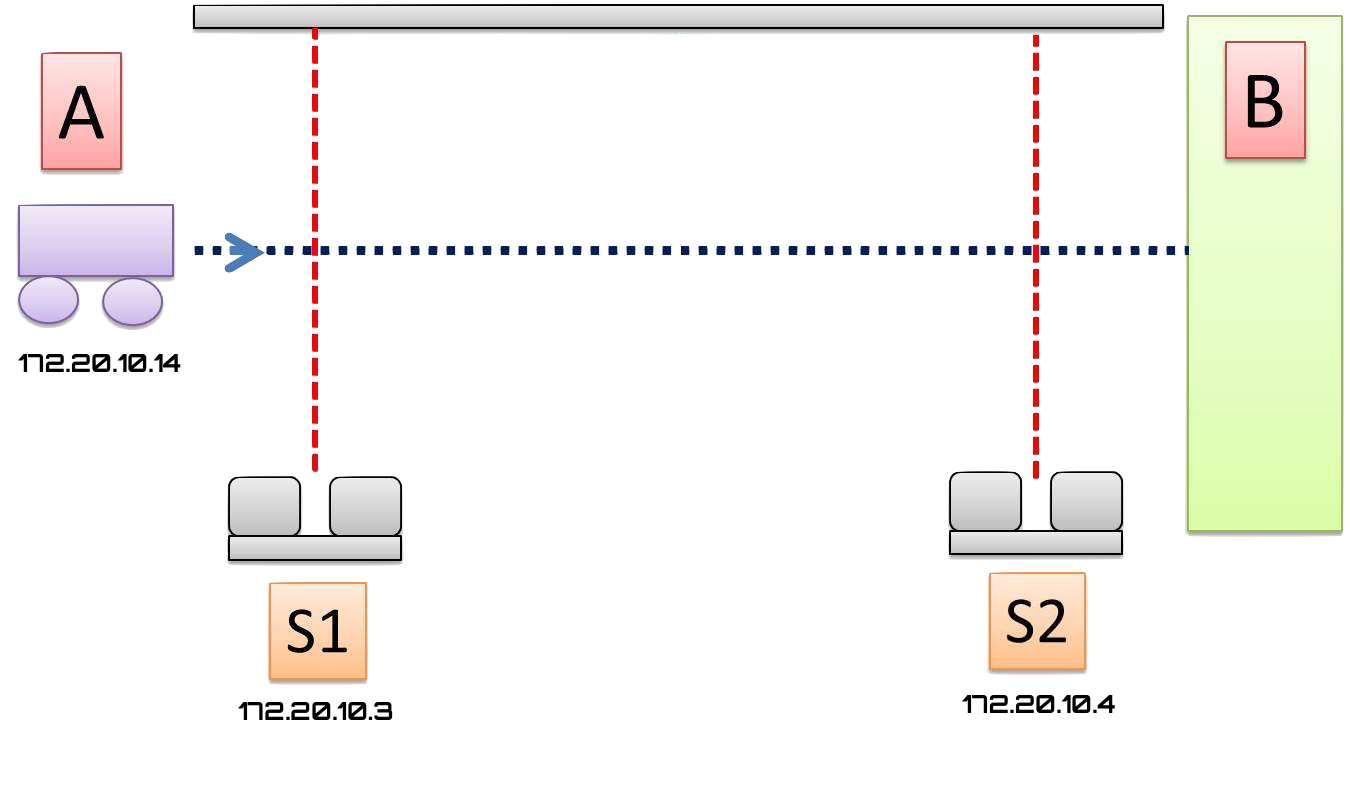
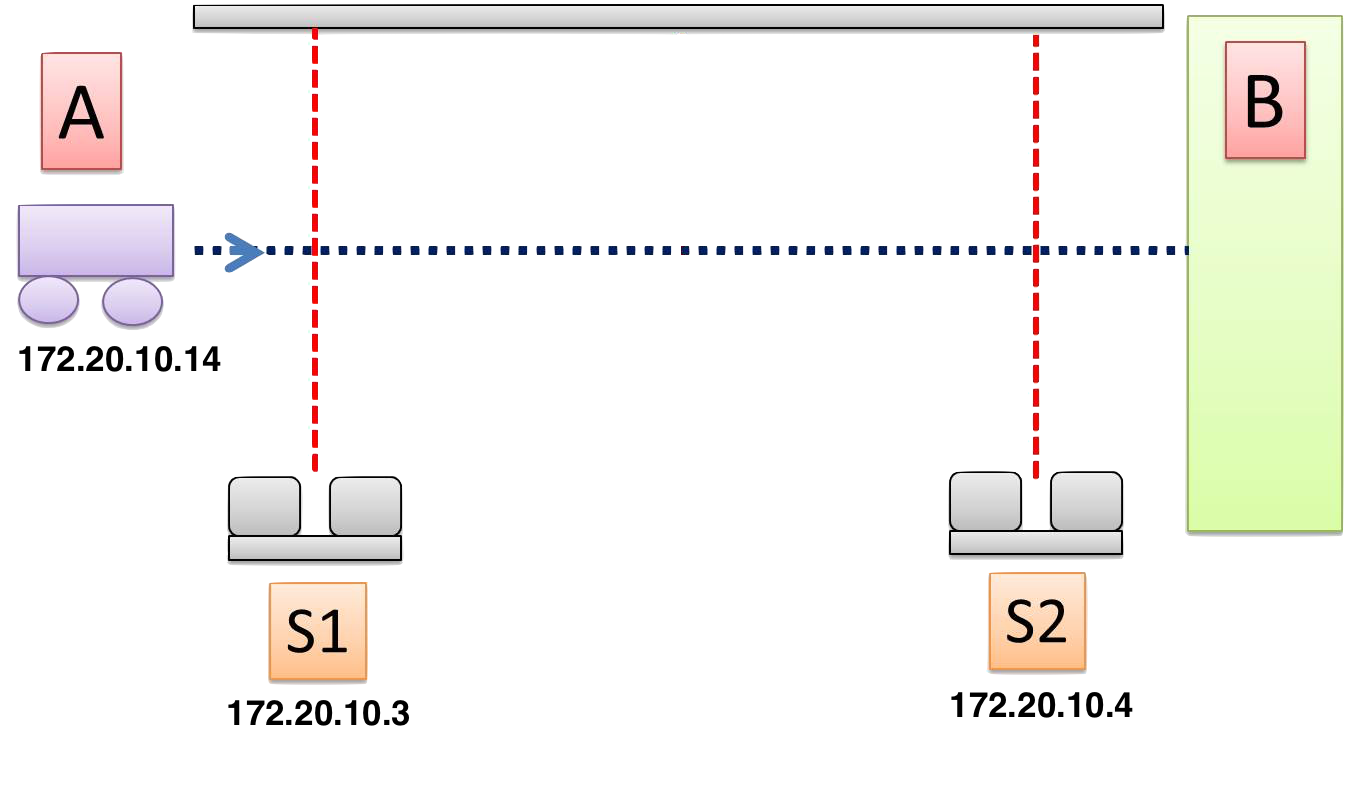
Modificato font system image, iniziato domain (model)

Changed region(s): [[0.0, 0.4269, 0.1556, 0.4879], [0.1556, 0.8844, 0.3111, 0.9454], [0.6844, 0.8844, 0.84, 0.9149]]

diff --git a/domain_model.tex b/domain_model.tex
@@ -1,8 +1,22 @@
 \subsection{(Domain)model}
-\textbf{Structure} \\
+\textbf{Structure} \\\\
 The system includes three different kind of entities:
 \begin{itemize}
-	\item \textbf{Robot}: Receives commands from the user interface, can emit and sense events and can send messages.
-	\item \textbf{Sonar}: Emits the distances recorded under the form of events.
-	\item \textbf{Radar GUI}: Receives events  
+	\item \textbf{Robot}: reactive and atomic entity - Receives commands from the user interface, can emit and sense events and can send messages;
+	\item \textbf{Sonar}: proactive and atomic entity - Emits the distances values to the radar entity;
+	\item \textbf{Radar}: reactive, proactive and composed entity - Composed by 2 graphical interfaces, the first used to display sonar's distance values and the second to display user's command.
 \end{itemize}
+\textbf{Interaction} \\\\
+Requirements show the system's distributed and heterogeneous nature reason that no assumptions were made regarding the technology of the nodes. After several talks with the costumer, the following specifications also emerged: 
+\begin{itemize}
+	\item La comunicazione tra robot e remote interface è punto a punto.
+	\item Se l’operatore seleziona un comando e il robot non lo esegue allora l’operatore deve selezionare il comando nuovamente.
+	\item L’allarme è una comunicazione emessa dall’ASC e diretta ad un qualunque robot in ascolto.
+	\item La comunicazione tra robot e ASC per il trasferimento dei risultati della fase di detection è punto a punto.
+	\item I dati raccolti durante la fase di detection devono obbligatoriamente arrrivare all’ASC.
+	\item L’allarme è una comunicazione emessa dall’ASC e diretta ad un qualunque robot in ascolto.
+\end{itemize}
+L’interazione tra le entità che compongono il sistema può essere formalizzata mediante un diagramma di sequenza.
+TODO diagramma di sequenza
+\textbf{Behaviour} \\\\
+SOLO DELLE 3 ENTITà

diff --git a/requirement_analysis.tex b/requirement_analysis.tex
@@ -14,8 +14,7 @@ One way to set up the analysis is to pay particular attention to the nouns and v
 \textbf{User Command} & An order given to the robot by the operator through the Console. \\ \hline
 \textbf{Radar} & Graphic User Interface that will shows the sonar data to the user \\ \hline
 \textbf{Alarm sound} & Alarm played when the expression's value is less than a prefix value. A notice will be sent by the system to the robot to stop it\\ \hline
-\textbf{Area B} & Robot finish point \\
-\hline
+\textbf{Area B} & Robot finish point \\ \hline
 \end{tabular}
 
 \input{user_stories}
